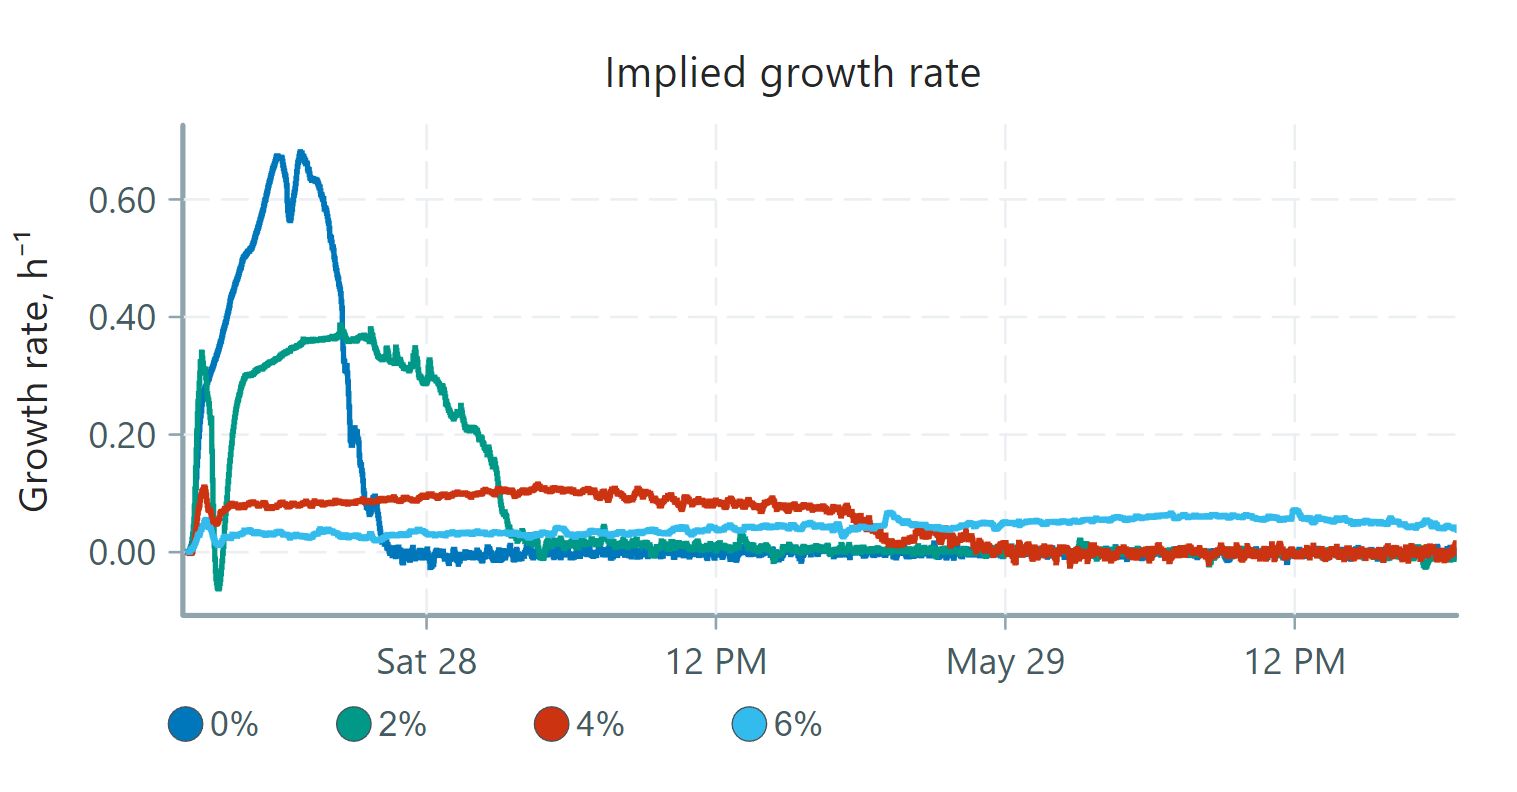
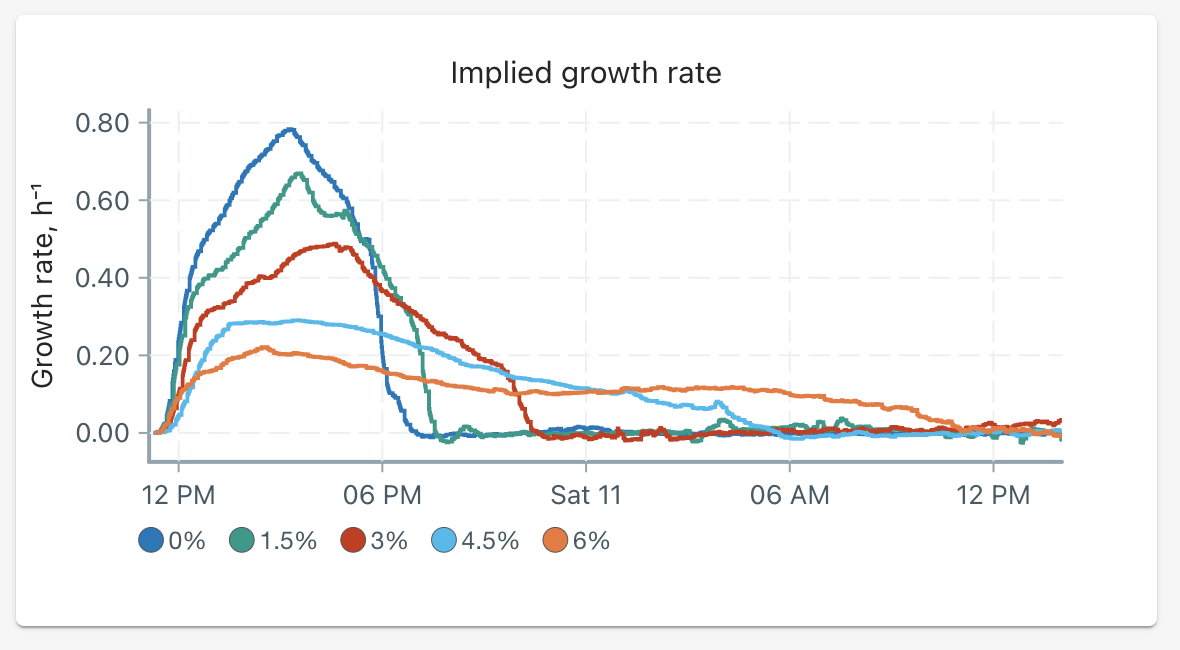
salt and temp complete

Changed region(s): [[0.0, 0.1538, 0.9763, 0.8615], [0.0305, 0.8923, 0.9763, 0.9846], [0.3661, 0.0615, 0.6407, 0.1538]]

diff --git a/experiments/02-Secondary level education/salt-stress-on-yeast.md b/experiments/02-Secondary level education/salt-stress-on-yeast.md
@@ -7,7 +7,7 @@ tags:
 ---
 
 :::tip Success Goal
-Observe differences yeast cell viability by introducing osmotic pressures with increasing salt concentrations. This experiment explores the topic of hypo- and hypertonicity. Salty environments create osmotic pressure gradients across the cell membrane. This introduces cellular stress, resulting in differences in cell growth rates. 
+Environmental salt content is one of several factors that influence the growth rates of yeast. Teachers can take many directions for this experiment, like introducing osmotic pressures (hypotonicity and hypertonicity of a cell) or discussing the effectiveness of salt as a food curing agent.  
 :::tip
 
 ## Requirements
@@ -37,37 +37,42 @@ Observe differences yeast cell viability by introducing osmotic pressures with i
 
 ## Example
 
-We replicated this experiment using four Pioreactors and vials containing 15 mL of sterile YPD stock and salt concentrations of 0%, 2%, 4%, and 6% w/v. 
+We replicated this experiment using five Pioreactors and vials containing 15 mL of sterile YPD stock and salt concentrations of 0%, 1.5%, 3%, 4.5%, and 6% w/v. 
 A sample calculation is as follows:
 $$
 \text {w/v \%}= \frac {\text{mass}}{\text {volume}} 
 $$
-To create a salt concentration of **2% w/v** for **15 mL** of media:
+To create a salt concentration of **3% w/v** for **15 mL** of media:
 $$
-0.02 = \frac {\text{mass}}{15 mL} 
+0.03 = \frac {\text{mass}}{15 mL} 
 $$
 $$
-\text {mass} = 0.3 g
+\text {mass} = 0.45 g
 $$
-Therefore, **0.3 grams** of table salt is needed for 2% w/v of salt.
-To each vial, 0g, 0.3g, 0.6g, and 0.9g of table salt were added, repectively. They were then innoculated with one drop of rehydrated active yeast (0.500 g of dry yeast in a 15 mL YPD broth vial). The _Temperature automation_ was set on _Stable_ at 30°C. 
+Therefore, **0.45 grams** of table salt is needed for 3% w/v of salt.
+To each vial, 0g, 0.225g, 0.45g, 0.675g and 0.9g of table salt were added, repectively. They were then innoculated with one drop of rehydrated active yeast (0.500 g of dry yeast in a 15 mL YPD broth vial). The _Temperature automation_ was set on _Stable_ at 32.5°C. 
 
 ### Results
 
-After approximately 20 hours, the following implied growth rates were recorded: 
+After approximately 26 hours, the following implied growth rates were recorded: 
 
 ![](/img/experiments/salt_growth_rate.png)
 
 We can summarize our results in the following table to highlight the non-linearity of our data: 
 
-|Salt percent (w/v)|Peak growth rate (h⁻¹)|Percent of control|Time to reach stationary phase|
-|------------------|--------------|-------|--------------------|
-|0%|0|100%|9 hours|
-|1.5%|0.37| |14 hours|
-|3%|0.11| |30 hours|
-|4.5%|0.07| |N/A|
-|6%| | | |
+|Salt percent (w/v)|Peak growth rate (h⁻¹)|Time to reach stationary phase|
+|------------------|--------------|----------------------|
+|0% (control) |0.78|8 hours|
+|1.5%|0.67|8.3 hours|
+|3%|0.49|11.5 hours|
+|4.5%|0.29|17 hours|
+|6%|0.22|24 hours|
 
-The highest growth was recorded in the vial at 0% salt w/v (no salt stress), at approximately 0.68 h⁻¹. We conclude that the phases of growth (lag, log phase) occured quickest with no salt stress and the stationary phase was reached in the smallest time frame of about 9 hours. 
+The highest growth was recorded in the vial at 0% salt w/v (no salt stress), at approximately 0.78 h⁻¹. We conclude that the phases of growth (lag, log phase) occured quickest with no salt stress and the stationary phase was reached in the smallest time frame of about 8 hours. 
 
-As the salt percentage increases, the peak growth rate decreases in a non-linear manner &#151 2% having a little over half of the maximum growth rate as 0% salt w/v, while 4% reached a peak of 1/3 of 2%'s peak.  
+As the salt percentage increases, the peak growth rate decreases and the time to reach the stationary phase was extended. These time increases are non-linear; between 0% and 1.5% salt, the stationary phase was reached within an increment of half an hour &#151 however 4.5% and 6% salt had a large increment of 7 hours (from 17 to 24 hours). 
+
+Teachers can consider expanding on this experiment. Suggestions include:  
+* performing the experiment over a longer period of time, or with higher salt percentages; papers commonly go up to 10%. 
+* exploring pretreated cells (by growing one culture in a saltier environment, then comparing a non-treated culture to the treated culture under the same conditions).
+* considering different species and how they react to the same salt conditions.

diff --git a/experiments/02-Secondary level education/yeast-growth-by-temperature.md b/experiments/02-Secondary level education/yeast-growth-by-temperature.md
@@ -47,12 +47,12 @@ Over the course of 12 hours, the following graphs were recorded:
 
 Though subtle, non-linear patterns of growth rate are observed between the temperatures. Key data points are summarized in the following table: 
 
-|Temperature|Peak growth rate (h⁻¹)|Percent of highest peak|Time to reach stationary phase|
-|------------------|----------------|-----|--------------------|
-|28°C|0.65|85.5%|9 hours|
-|32°C|0.73|96.1%|8.5 hours|
-|36°C|0.76|100%|7.5 hours|
-|40°C|0.59|77.6%|9.5 hours|
+|Temperature|Peak growth rate (h⁻¹)|Time to reach stationary phase|
+|------------------|----------------|--------------------|
+|28°C|0.65|9 hours|
+|32°C|0.73|8.5 hours|
+|36°C|0.76|7.5 hours|
+|40°C|0.59|9.5 hours|
 
 Rather than increasing as temperature increases, the higherst growth rates form a slight bell-curve, with the highest overall growth rate of **0.76 h⁻¹** occuring at 36°C. It tapers off at 40°C, since this temperature lies outside of the ideal temperature range for yeast. 
 
